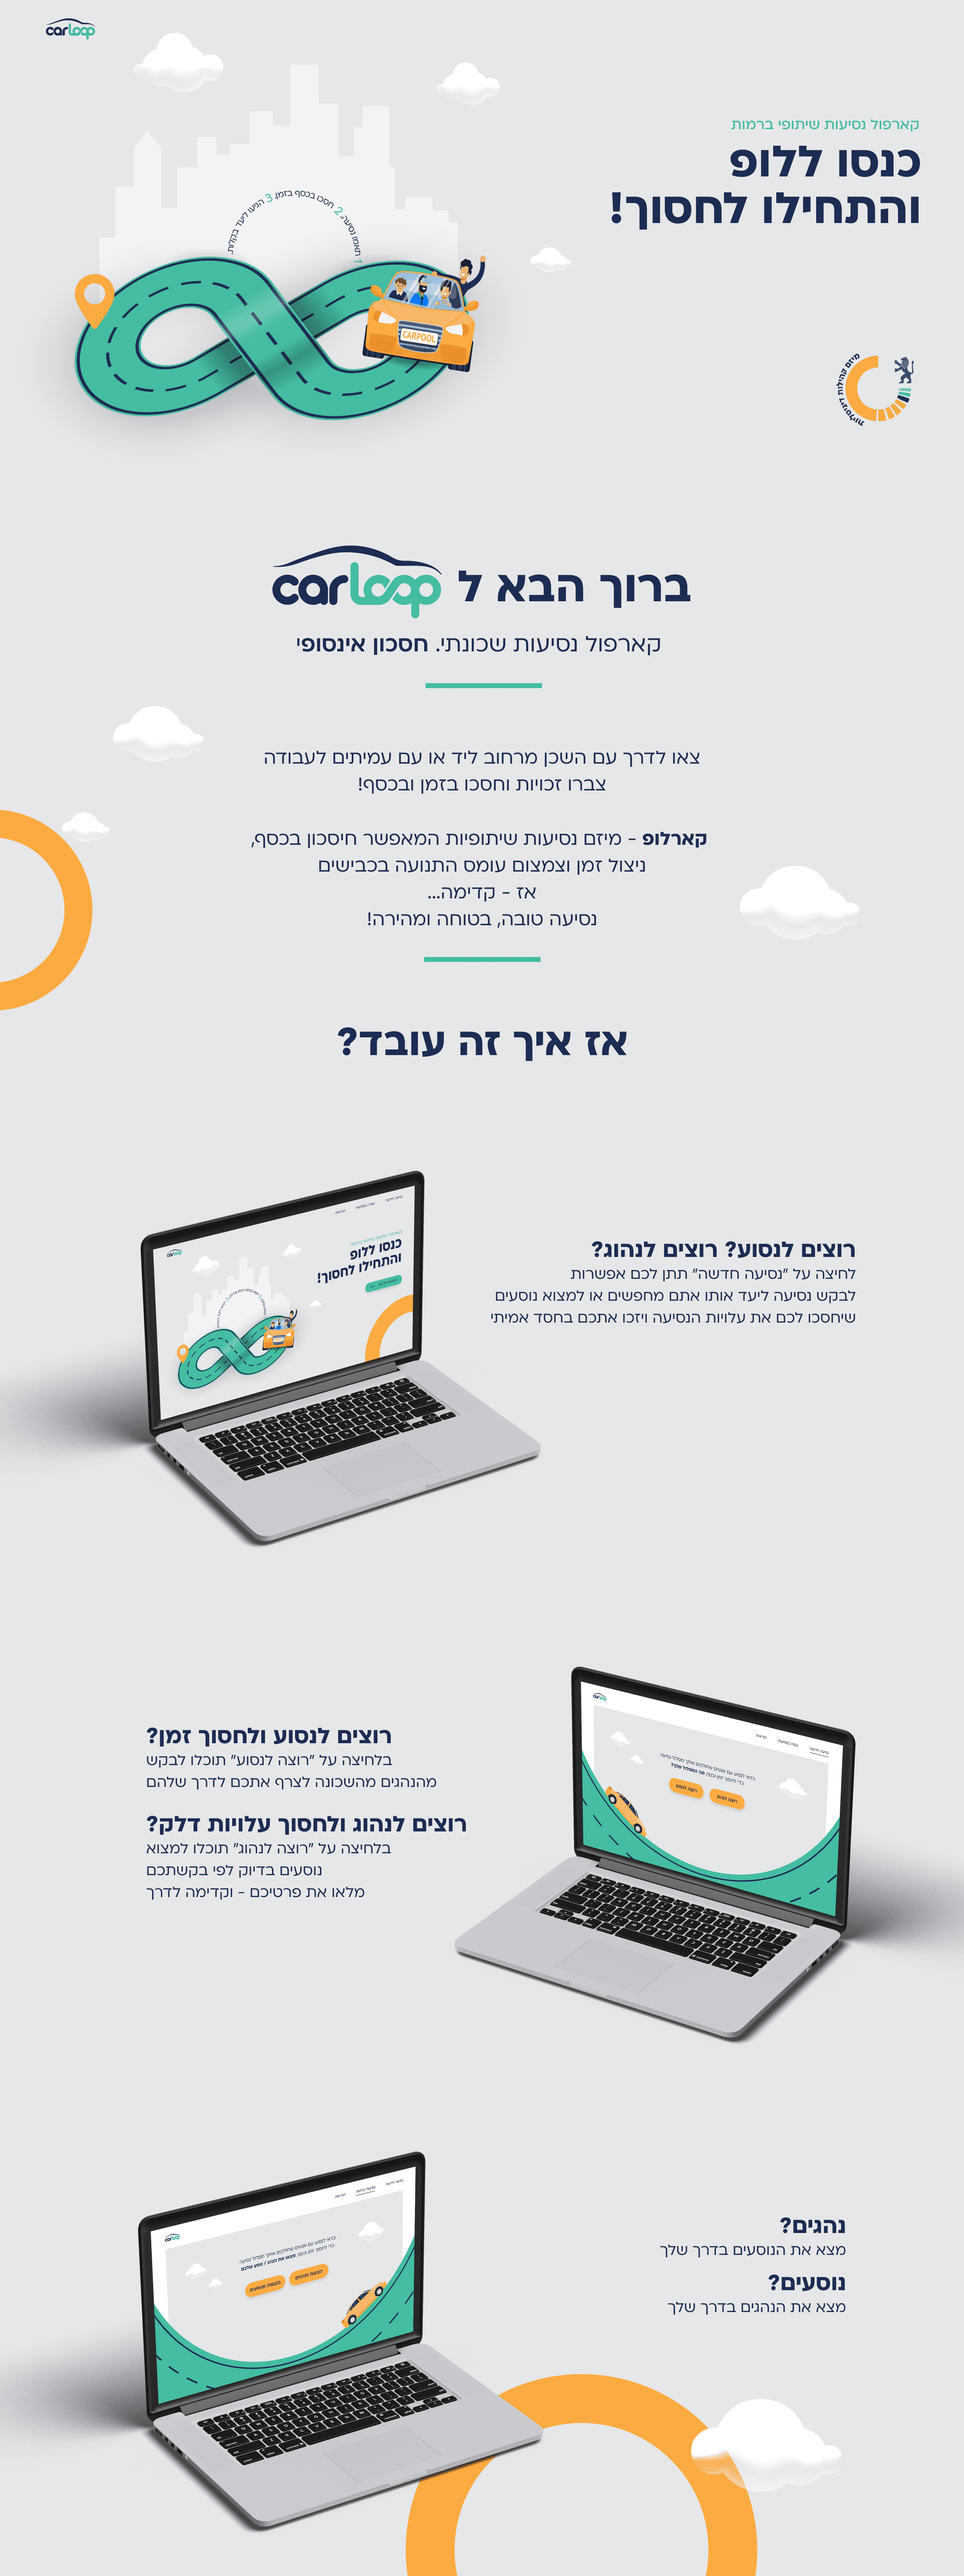
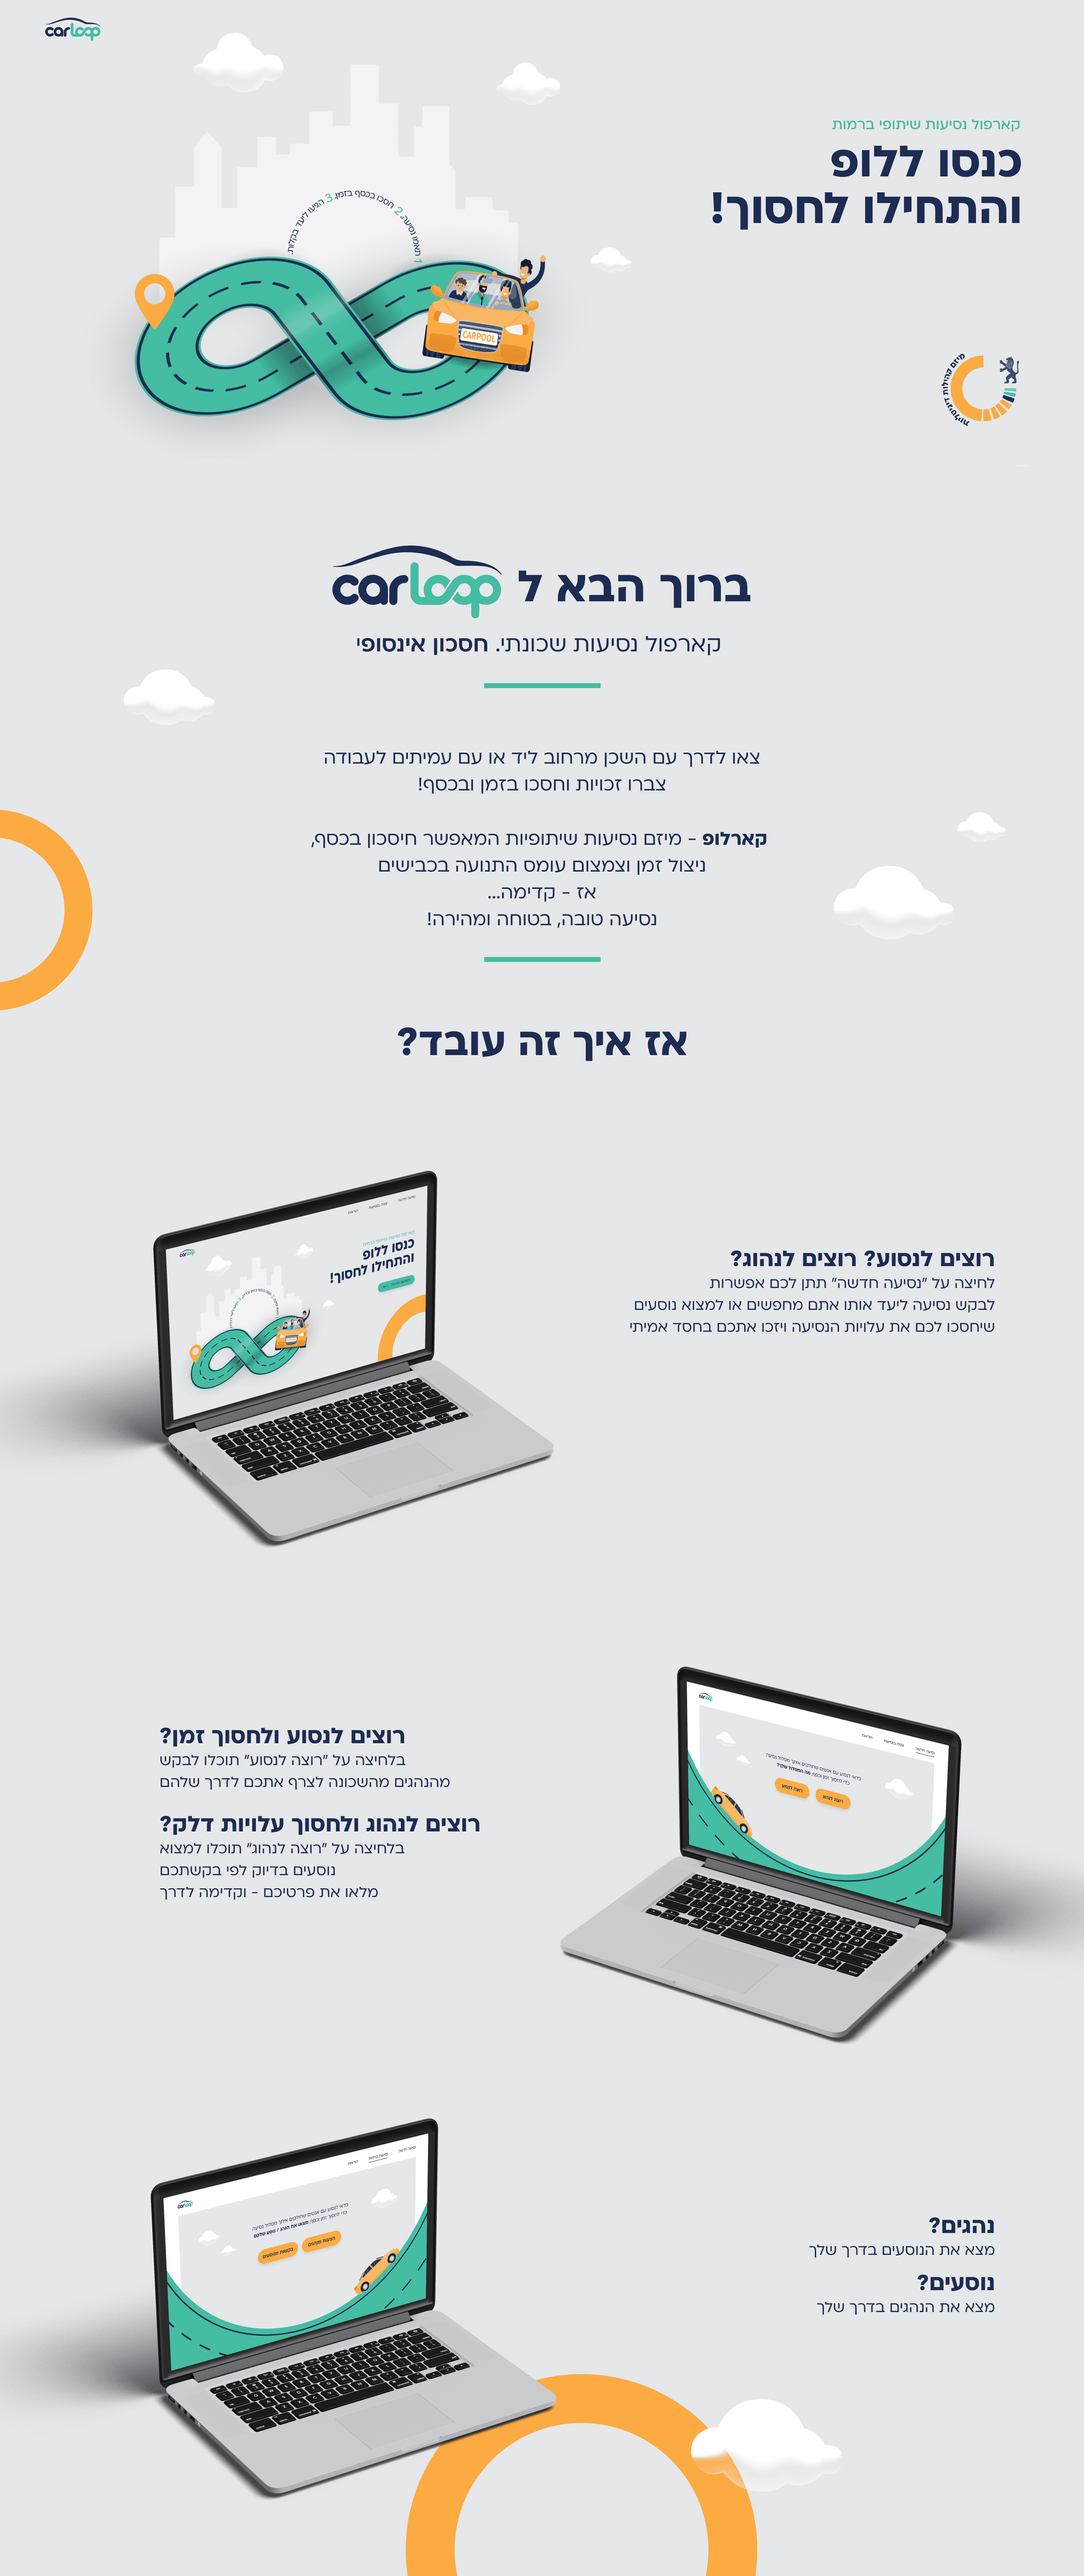
aa

diff --git a/src/components/newTravel.css b/src/components/newTravel.css
@@ -8,6 +8,7 @@
     min-width: 600px;
     min-height: 600px;
     background-color: #e6e7e8 !important;
+    overflow-x: hidden
 }
 .popup{
     height: 450px;
@@ -149,16 +150,16 @@
 }
 
 .title {
-    position: absolute;
     width: 175px;
     height: 30px;
-    left: 250px;
     color: #FBAB41;
     border-radius: 5px;
     text-align: center;
     font-size: 33px;
     font-weight: bold;
     font-family: Ploni DL 1.1 AAA;
+    align-self: center;
+    margin-top: 15px;
 }
 .save {
     background: #43bda2;

diff --git a/src/components/driverAndPassenger.js b/src/components/driverAndPassenger.js
@@ -219,7 +219,7 @@ const DriverAndPassenger = (props) => {
 
     return (
         <Dialog open={show} onClose={closeDialog} maxWidth="xs" fullWidth={true} >
-            <DialogTitle>
+            <DialogTitle class="title">
                 <div class="title">נסיעה חדשה</div>
 
             </DialogTitle>

diff --git a/src/components/homePage.css b/src/components/homePage.css
@@ -9,13 +9,13 @@
 }
 
 .home-bg {
-    height: 3650px;
+    height: 3600px;
 }
 
 .menu {
     background-color: transparent;
     direction: rtl;
-    padding-right: 150px;
+    padding-right: 60px;
 }
 
 .menu-btn {

diff --git a/src/components/viewTravel.css b/src/components/viewTravel.css
@@ -56,8 +56,7 @@
 
 .btn3 {
     position: absolute;
-    left: 78%;
-    right: 35.14%;
+    right: 80px;
     top: 50%;
     bottom: 46.58%;
 
